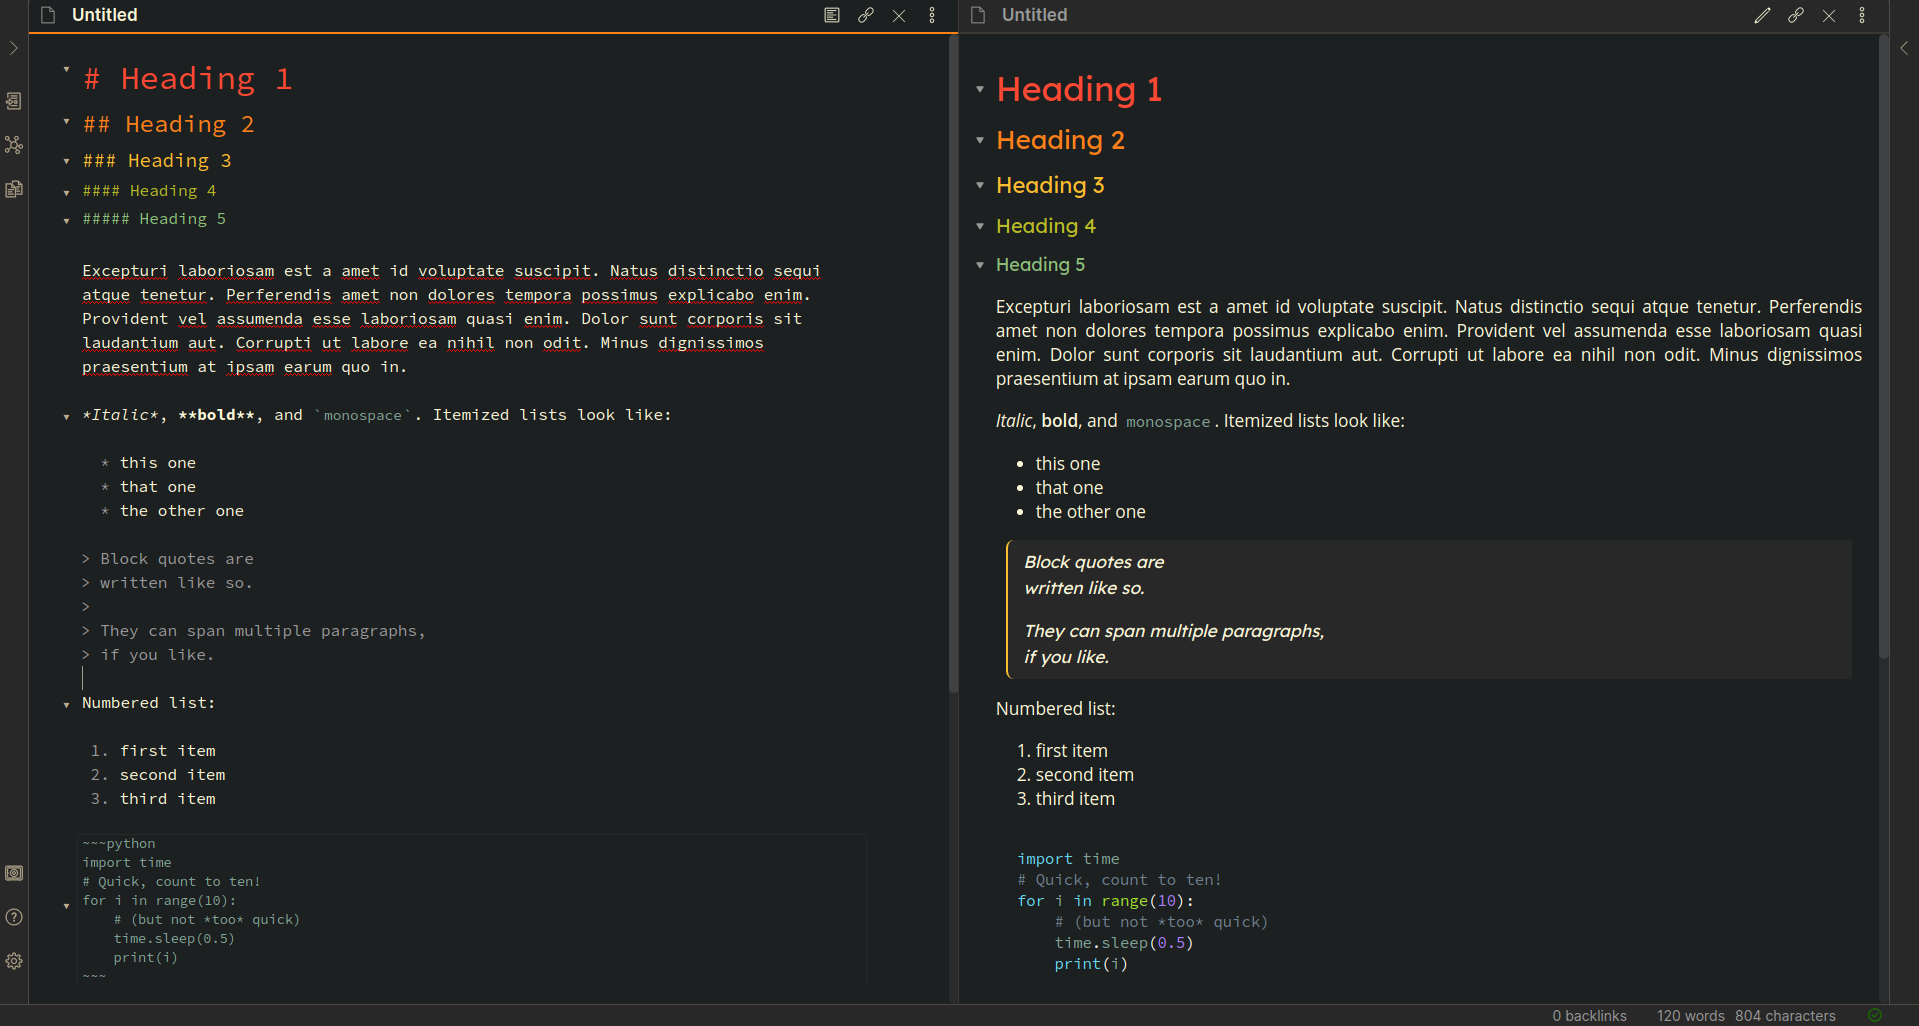
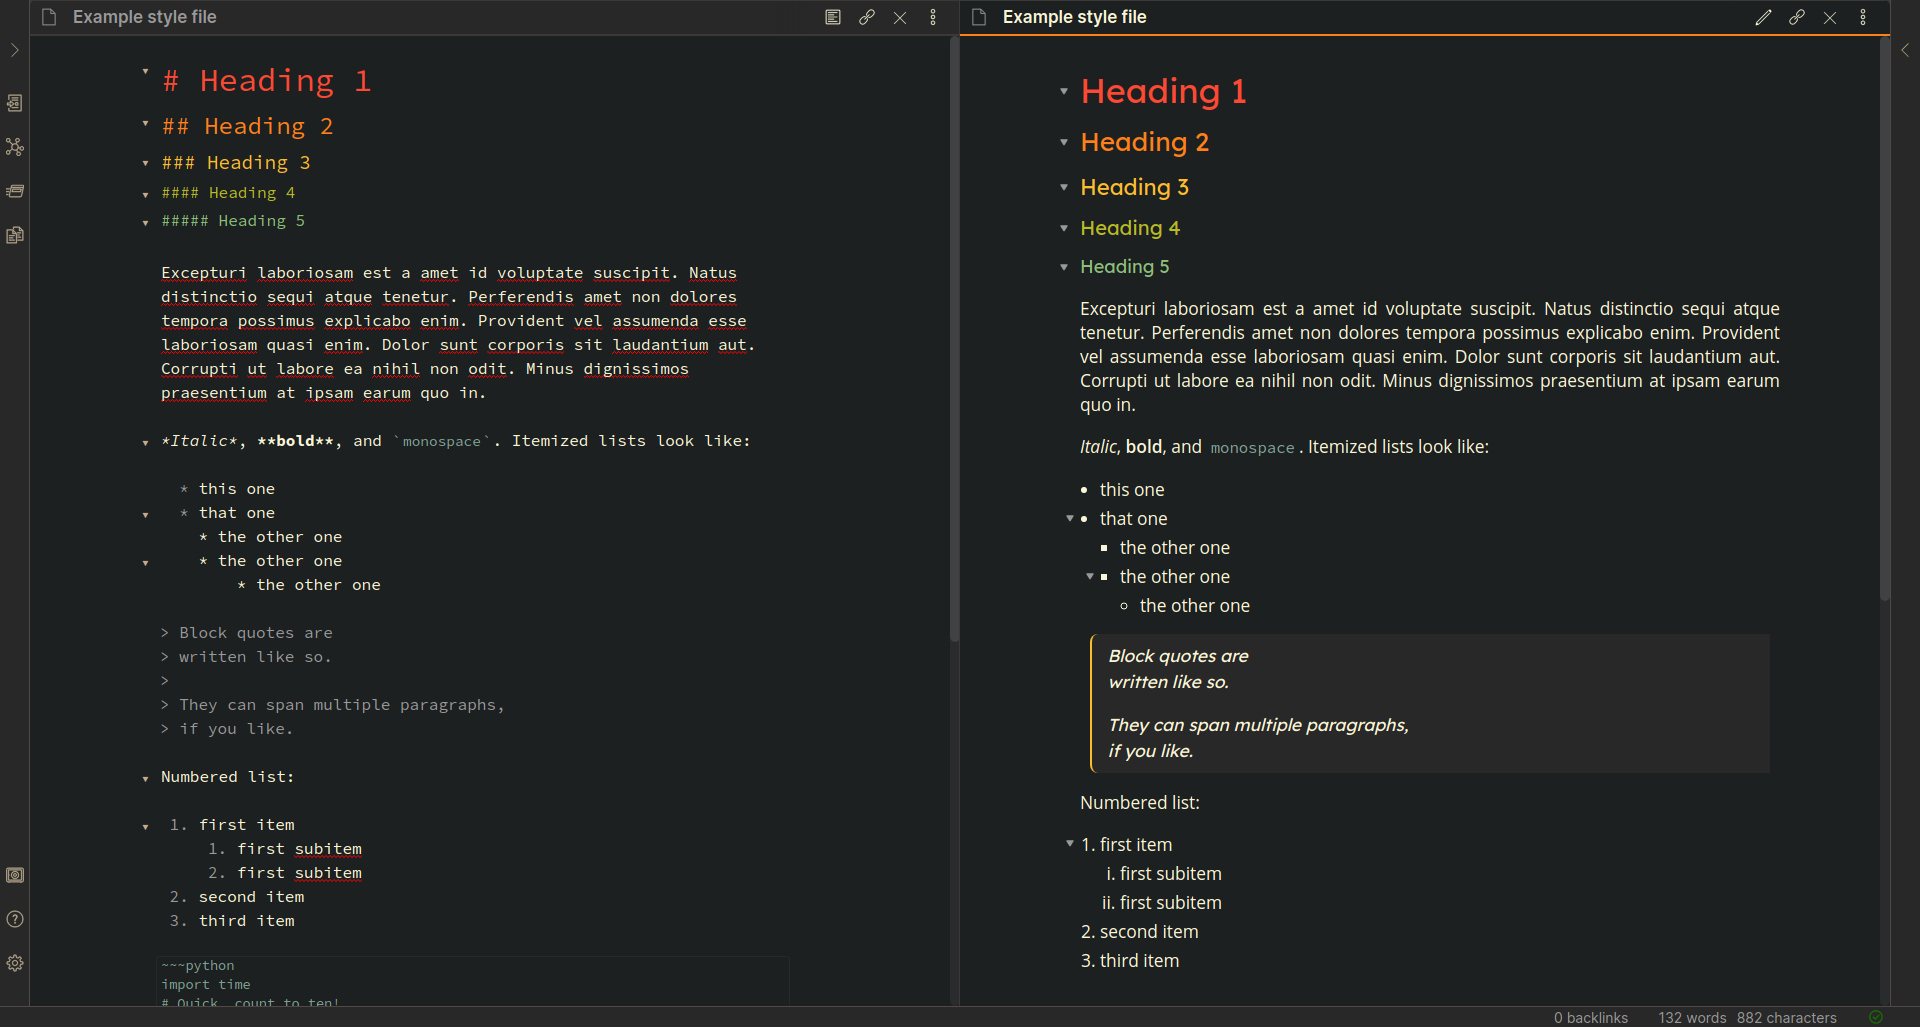
stylized lists

diff --git a/obsidian.css b/obsidian.css
@@ -271,12 +271,13 @@ img {
 
 /* adaptive line length */
 
-.CodeMirror-lines,
+
+/* .CodeMirror-lines,
 .CodeMirror-selected,
 .markdown-preview-section {
     max-width: 50em;
     margin: auto;
-}
+} */
 
 .markdown-preview-section pre code,
 .markdown-preview-section code {
@@ -507,4 +508,47 @@ input.task-list-item-checkbox:checked {
 
 .mermaid .note {
     fill: var(--dark3) !important;
+}
+
+
+/* add spacing before and after lists */
+
+ul {
+    list-style: disc;
+    padding: 0px 20px 0px 20px;
+}
+
+ol {
+    padding: 0px 20px 0px 20px;
+}
+
+
+/* add small spacing between list items for readability */
+
+li {
+    margin: 5px 0;
+}
+
+ul li {
+    list-style: disc;
+}
+
+ul li li {
+    list-style: square;
+}
+
+ul li li li {
+    list-style: circle;
+}
+
+ol li {
+    list-style: decimal;
+}
+
+ol li li {
+    list-style: lower-roman;
+}
+
+ol li li li {
+    list-style: lower-latin;
 }
